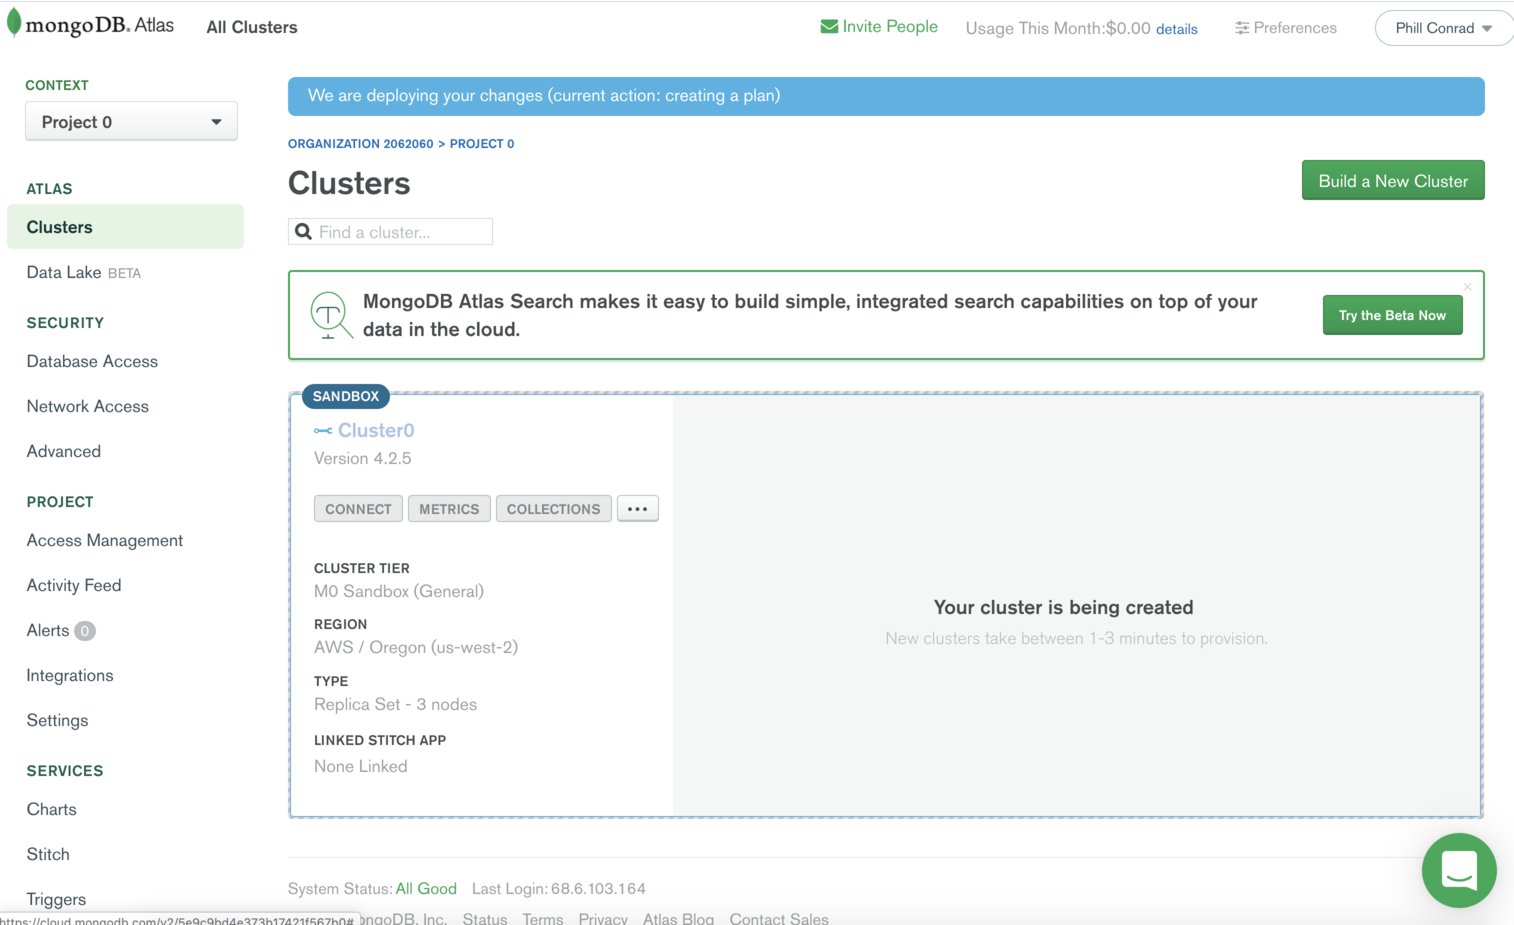
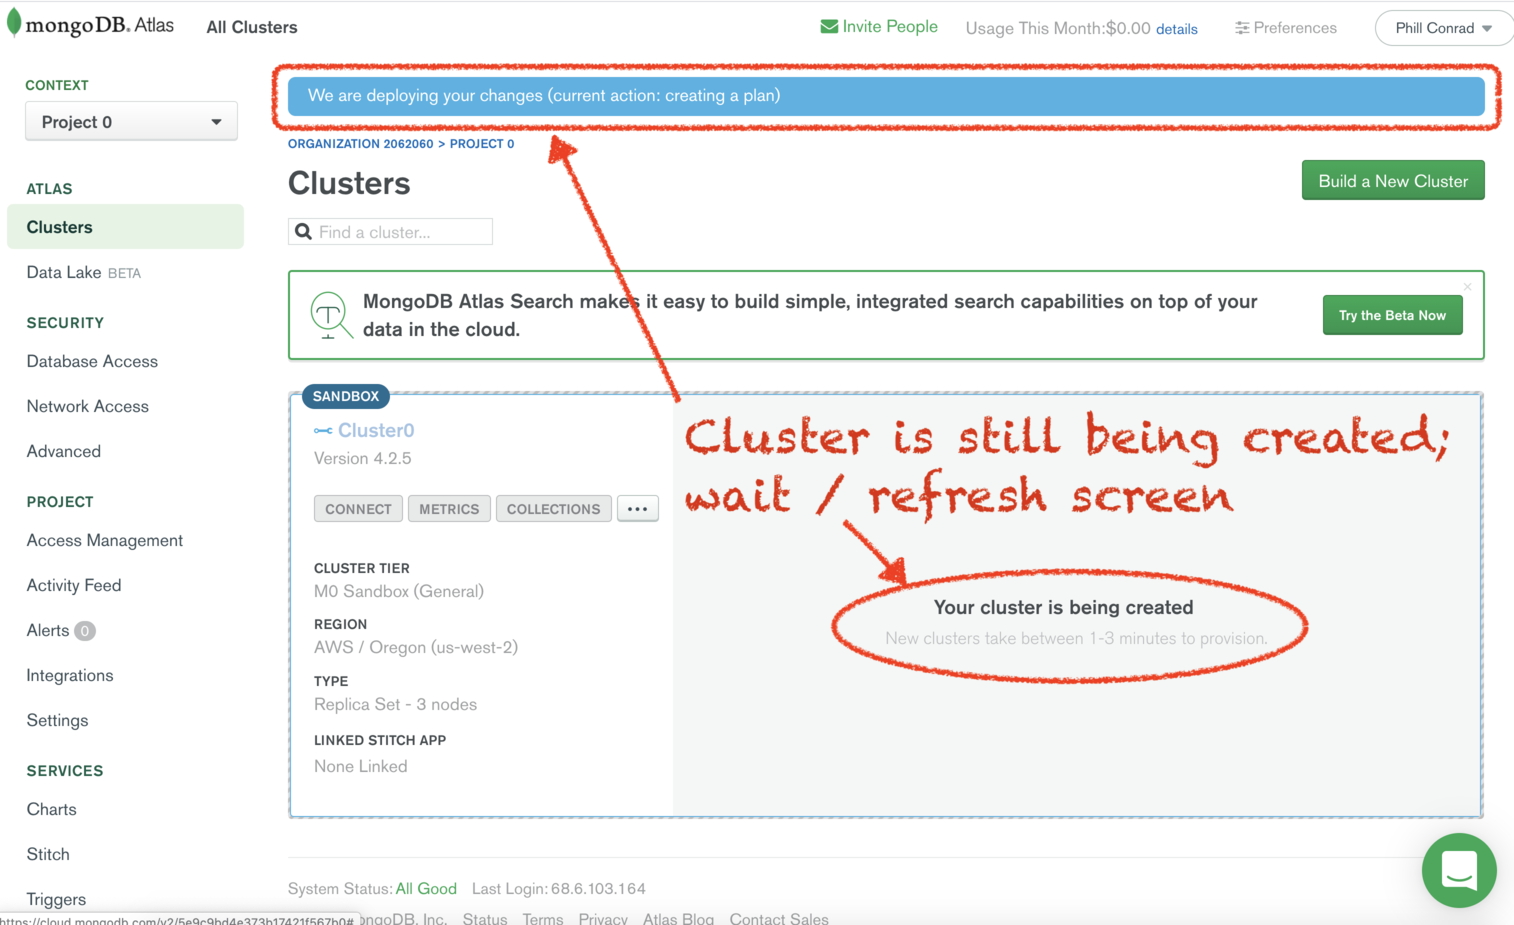
pc - update cloud atlast documentation

diff --git a/_topics/mongodb_cloud_atlas_setup.md b/_topics/mongodb_cloud_atlas_setup.md
@@ -41,25 +41,88 @@ The instructions in this article cover how to set up a new free account, up to t
 
   ![06-select-us-west.png](06-select-us-west-30.png)
 
+  Click the "Create Cluster" button.  This will launch Cluster Creation,
+  described in the next step.
+
 # Step 5: Cluster Creation
 
-  ![07-cluster-creation.png](07-cluster-creation-50.png)
+  At this point, there is about a 3 minute wait while your cluster is being
+  created.  The screen will look like this, with a blue progress bar
+  at the top, and a note that your cluster is being created in the center
+  of the screen.  
 
-  ![08-cluster-creation-done.png](08-cluster-creation-done-50.png)
+  ![07-cluster-creation.png](07-cluster-creation-30.png)
+
+  You can wait, or periodically refresh your page, until it looks like this.
+  This is your indication that cluster creation is finished:
+
+  At this point you are ready to click the "Connect" button
+  as shown below.
+
+  ![08-cluster-creation-done.png](08-cluster-creation-done-30.png)
+
+  That should take you to this screen, which will be described in the next
+  step.
 
   ![09-connect-to-cluster.png](09-connect-to-cluster-50.png)
 
 # Step 6: Whitelist Current IP Address
 
+  ![09a-connect-to-cluster.png](09a-connect-to-cluster-50.png)
+
+  When you click on the "Add Your Current IP Address" button, you'll
+  be deposited at this screen.   Add a description of the machine
+  and internet connection you are currently using, and click "Add IP Address".
+
   ![10-whitelist-current-ip-address.png](10-whitelist-current-ip-address-50.png)
 
-# Step 7: Create a MongoDB User
+  Note that this will *only* whitelist
+  the IP address of the computer on which you are running the web browser.
+
+  This should allow you to connect to the MongoDB database from your
+  application when running on `localhost` on that same computer.
+  
+  It will *not* however, allow access from:
+  * cloud platforms such as now.sh
+  * your same laptop, if it changes IP address (e.g. if you move from one
+    network to another, or if your ISP changes your apparent public IP address
+    from time-to-time).
+
+  Therefore, you may need to return to this screen later to whitelist
+  additional IP addresses.
+
+# Step 8: Whitelist the Entire Internet (not a "best practice")
+
+  Although it is not the "best practice" in terms of security,
+  the easiest way to proceed is to whitelist the "entire internet".
+
+  The more secure alternative is to whitelist:
+  * Specfic addresses for the IP addresses you may have when you are
+    doing development.
+  * Specific address ranges for cloud providers such as `now.sh` and/or Heroku
+
+  That is more secure, but it can be tedious and error prone.
+
+  So, to whitelist the entire internet, proceed as follows:
+  
+  Access the menu item on the left for "Network Access",
+  and then click the button to "ADD IP ADDRESS".
+
+  In the screen that comes up, there is a button for
+  "Allow Access from Anywhere". This automatically enters the
+  address block `0.0.0.0/0`, which is the standard notation for
+  "All IPv4 addresses", i.e. the entire Internet.
+
+  Click "Confirm" and then your MongoDB database will be accessible
+  from anywhere.
+
+# Step 8: Create a MongoDB User
 
   ![11-create-a-mongodb-user.png](11-create-a-mongodb-user-50.png)
 
   ![12-ready-to-connect.png](12-ready-to-connect-50.png)
 
-# Step 8: Obtain the URI string for connection 
+# Step 9: Obtain the URI string for connection 
 
   ![13-connect-your-application.png](13-connect-your-application-50.png)
 
@@ -69,7 +132,7 @@ The instructions in this article cover how to set up a new free account, up to t
 
   ![16-database-access-screen.png](16-database-access-screen-50.png)
 
-# Step 9: Obtaining (changing) the DB User Password
+# Step 10: Obtaining (changing) the DB User Password
 
   ![17-edit-user.png](17-edit-user-50.png)
 
